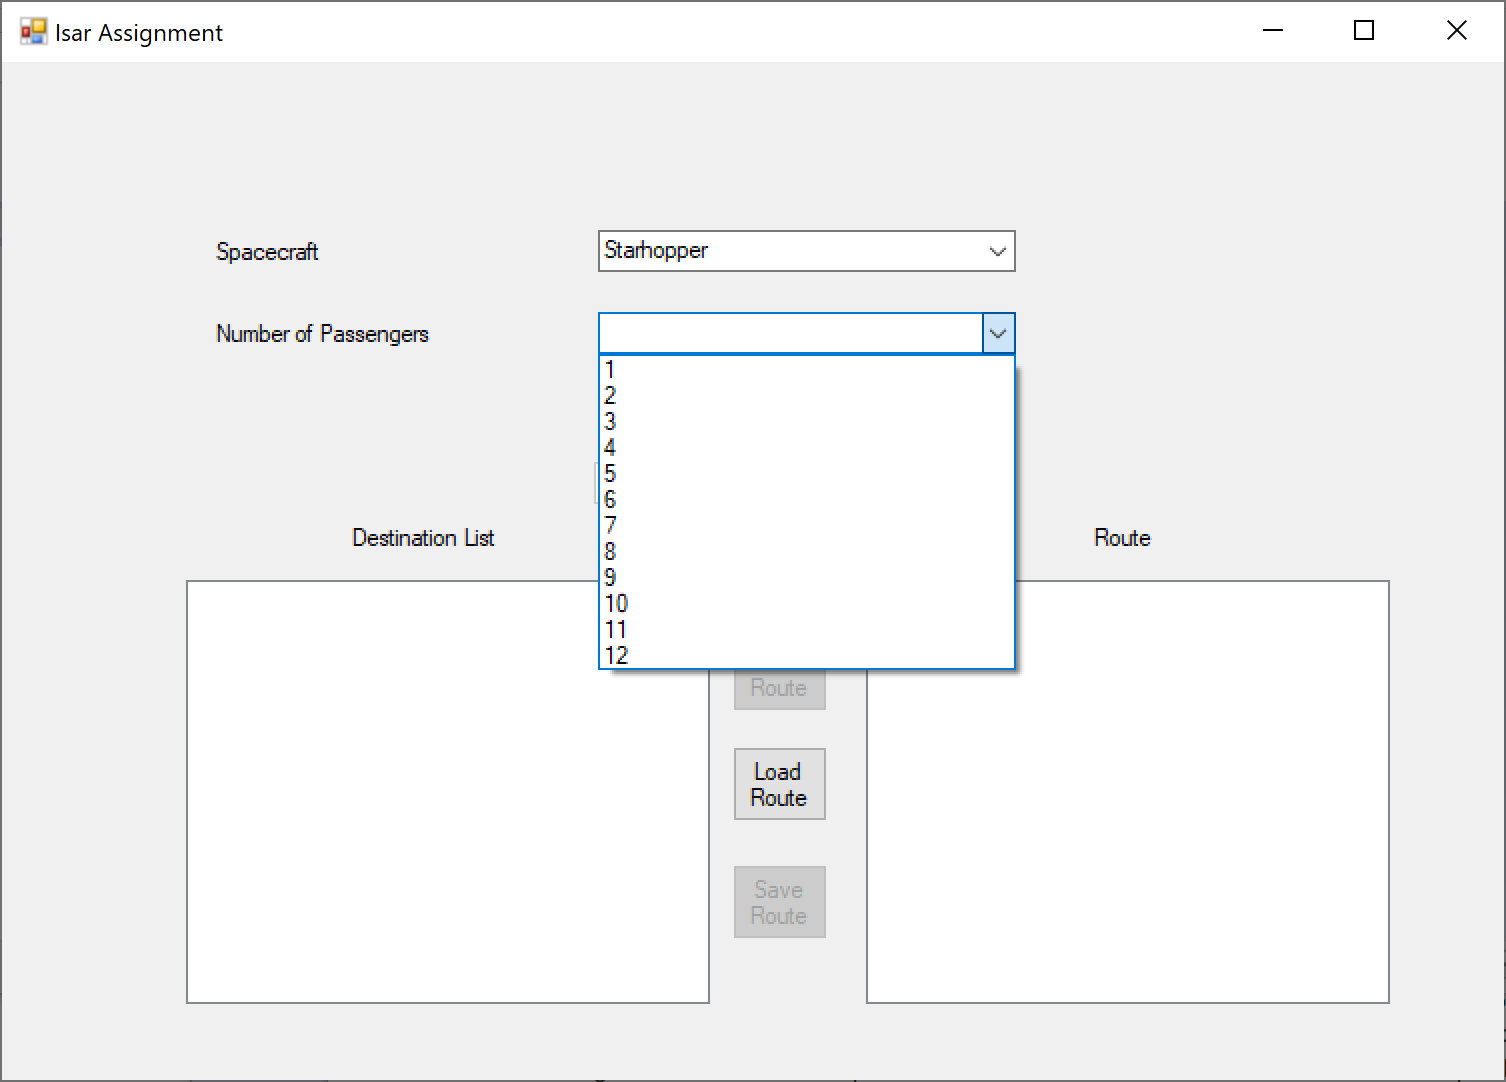
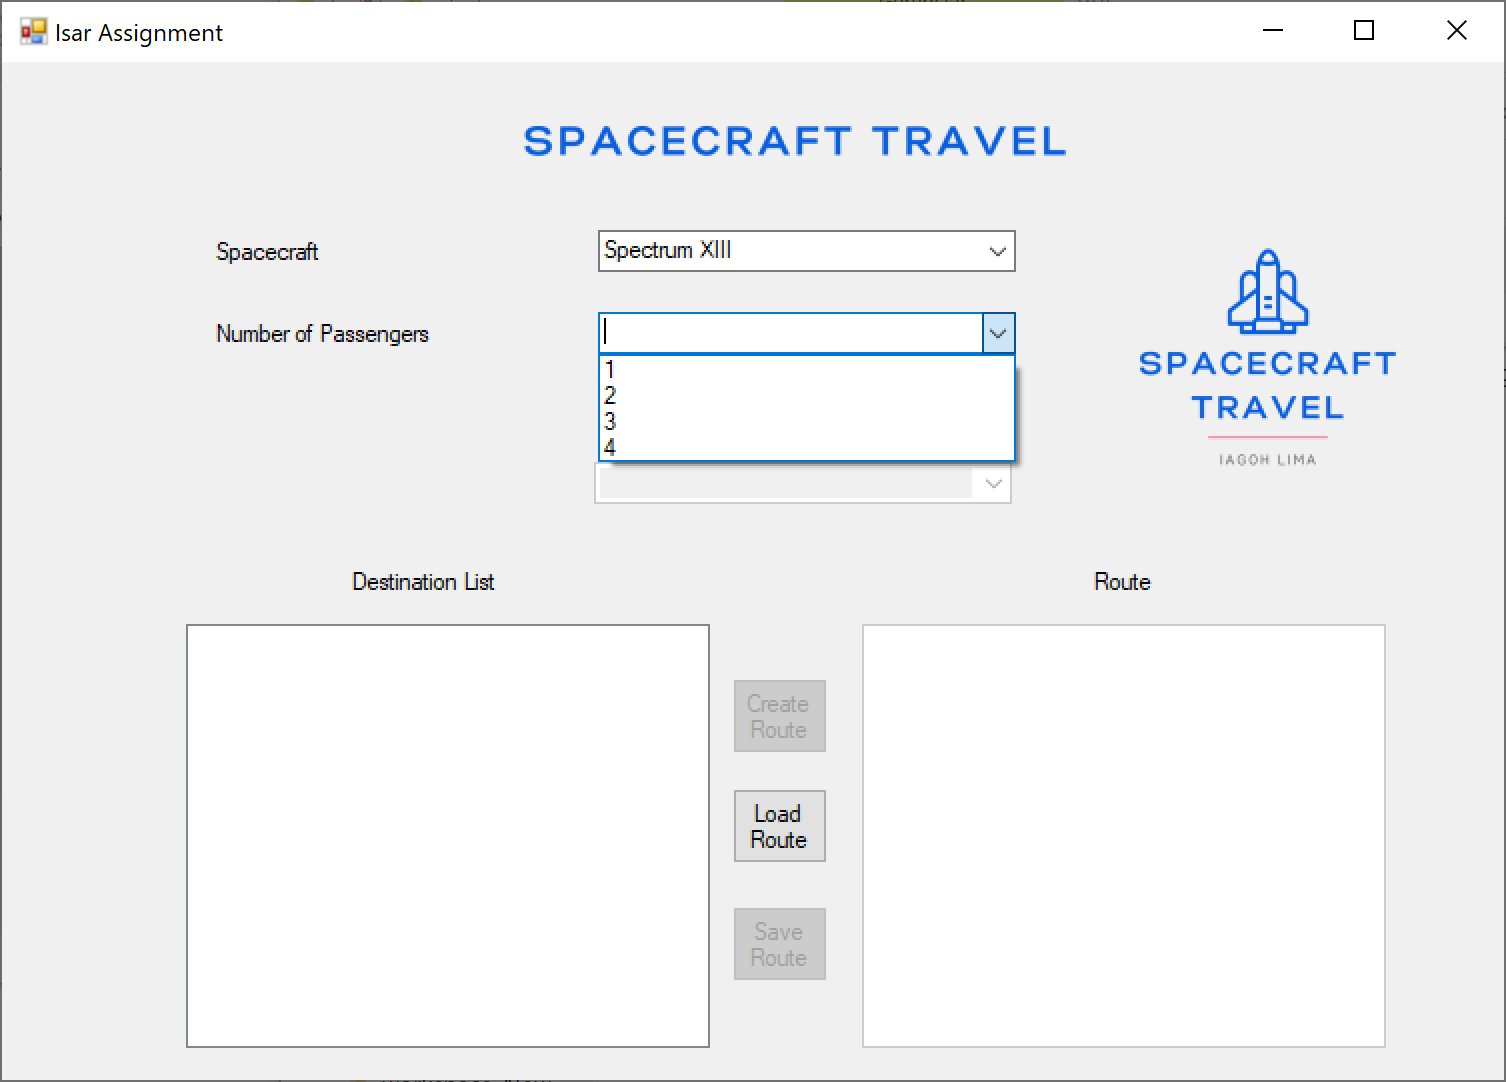
Added some images to the document Fixed some bugs

diff --git a/isarAssignment/Form1.Designer.cs b/isarAssignment/Form1.Designer.cs
@@ -89,7 +89,7 @@
             // 
             this.destination_listBox.FormattingEnabled = true;
             this.destination_listBox.ItemHeight = 25;
-            this.destination_listBox.Location = new System.Drawing.Point(183, 556);
+            this.destination_listBox.Location = new System.Drawing.Point(183, 540);
             this.destination_listBox.Name = "destination_listBox";
             this.destination_listBox.Size = new System.Drawing.Size(521, 404);
             this.destination_listBox.TabIndex = 4;
@@ -98,7 +98,7 @@
             // destination_list_label
             // 
             this.destination_list_label.AutoSize = true;
-            this.destination_list_label.Location = new System.Drawing.Point(345, 502);
+            this.destination_list_label.Location = new System.Drawing.Point(345, 486);
             this.destination_list_label.Name = "destination_list_label";
             this.destination_list_label.Size = new System.Drawing.Size(160, 25);
             this.destination_list_label.TabIndex = 5;
@@ -107,7 +107,7 @@
             // route_label
             // 
             this.route_label.AutoSize = true;
-            this.route_label.Location = new System.Drawing.Point(1086, 502);
+            this.route_label.Location = new System.Drawing.Point(1086, 486);
             this.route_label.Name = "route_label";
             this.route_label.Size = new System.Drawing.Size(69, 25);
             this.route_label.TabIndex = 7;
@@ -133,7 +133,7 @@
             // 
             // createRoute_button
             // 
-            this.createRoute_button.Location = new System.Drawing.Point(730, 608);
+            this.createRoute_button.Location = new System.Drawing.Point(730, 592);
             this.createRoute_button.Name = "createRoute_button";
             this.createRoute_button.Size = new System.Drawing.Size(97, 74);
             this.createRoute_button.TabIndex = 10;
@@ -143,7 +143,7 @@
             // 
             // load_route_button
             // 
-            this.load_route_button.Location = new System.Drawing.Point(730, 715);
+            this.load_route_button.Location = new System.Drawing.Point(730, 699);
             this.load_route_button.Name = "load_route_button";
             this.load_route_button.Size = new System.Drawing.Size(97, 74);
             this.load_route_button.TabIndex = 11;
@@ -152,7 +152,7 @@
             // 
             // save_route_button
             // 
-            this.save_route_button.Location = new System.Drawing.Point(730, 828);
+            this.save_route_button.Location = new System.Drawing.Point(730, 812);
             this.save_route_button.Name = "save_route_button";
             this.save_route_button.Size = new System.Drawing.Size(97, 74);
             this.save_route_button.TabIndex = 12;
@@ -162,7 +162,7 @@
             // 
             // route_textBox
             // 
-            this.route_textBox.Location = new System.Drawing.Point(861, 556);
+            this.route_textBox.Location = new System.Drawing.Point(861, 540);
             this.route_textBox.Multiline = true;
             this.route_textBox.Name = "route_textBox";
             this.route_textBox.Size = new System.Drawing.Size(521, 404);

diff --git a/isarAssignment/Form1.cs b/isarAssignment/Form1.cs
@@ -43,8 +43,7 @@ namespace isarAssignment
             route_textBox.BackColor = Color.White;
             spacecraft_ComboBox.Text = "Please Select a SpaceCraft";
 
-            //using the full path for testing purpose. It will be changed in the final version.
-            using (StreamReader r = new StreamReader("C:\\Users\\Iagoh Ribeiro Lima\\Downloads\\DotNetAssignment\\data.json"))
+            using (StreamReader r = new StreamReader("..\\..\\doc\\data.json"))
             {
                 string json = r.ReadToEnd();
                 data = JsonConvert.DeserializeObject<JsonData>(json);
@@ -112,7 +111,7 @@ namespace isarAssignment
 
             foreach (Spacecrafts item in data.Spacecrafts)
             {
-                if (item.Name != null && spacecraft_ComboBox.SelectedItem != null)
+                if (item.Name != null && spacecraft_ComboBox.SelectedItem != null && capacity_ComboBox.SelectedItem != null)
                 {
                     if (spacecraft_ComboBox.SelectedItem.ToString() == item.Name)
                     {
@@ -142,7 +141,11 @@ namespace isarAssignment
 
         private void destination_comboBox_SelectedIndexChanged(object sender, EventArgs e)
         {
-            String selectedItemName = destination_comboBox.SelectedItem.ToString();
+            String selectedItemName = "";
+
+            if (destination_comboBox.SelectedItem != null)
+                selectedItemName = destination_comboBox.SelectedItem.ToString();
+            
             Planet itemSelected = null;
             int temperatureSignal = 0;
 
